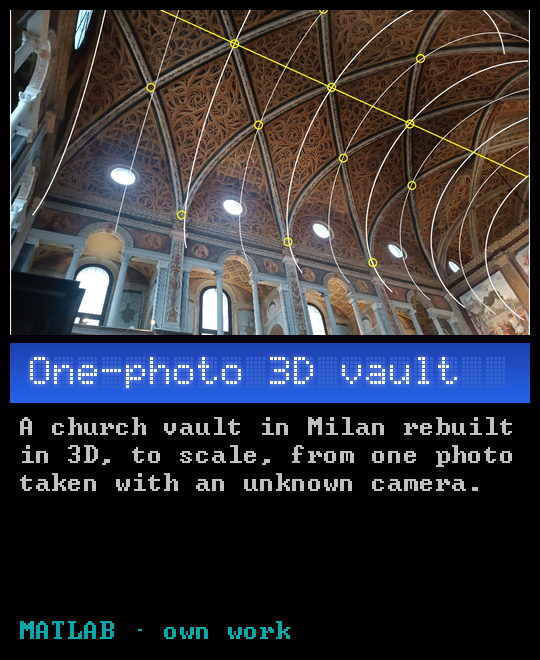
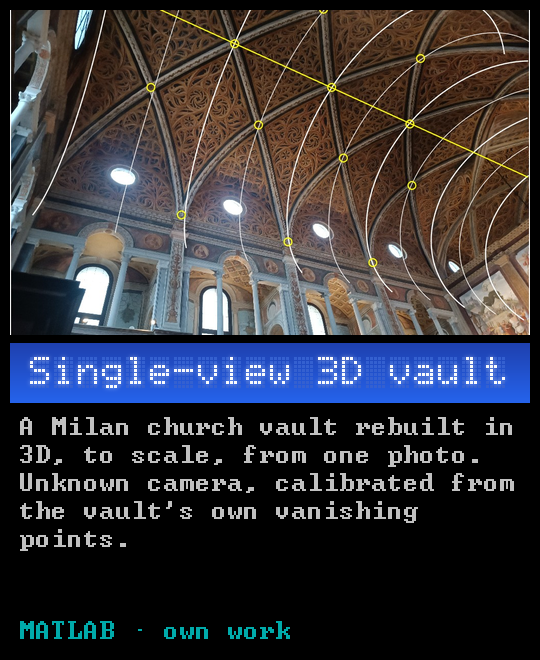
Retitle project cards and table with the system plus the technique
- Cards: Seesaw LQR control, Single-view 3D vault, Crane modal analysis;
  Seesaw card now credits work across every stage.
- Snakes & Ladders and AVR traffic light move from the grid to the table.
- Table links use readable names; Beko project renamed to Beko anomaly
  detection; CADBOARD alignment error given in px^2 (MSE).

diff --git a/README.md b/README.md
@@ -4,18 +4,16 @@
 <a href="projects/beko-connector-inspection.md"><img src="assets/projects/beko.gif" width="270" alt="Beko anomaly detection. Finds missing cables on Beko oven control boards. Caught 21 of 25 real defects, passed 98.2% of good connectors. PyTorch - team of 4, I built the per-connector anomaly detection - drawing (photos under NDA). Picture: Drawing of a control board with four connectors; the scan marks the one with no cable."></a>
 <a href="https://github.com/Negm2000/CADBOARD"><img src="assets/projects/cadboard.gif" width="270" alt="CADBOARD inspection. A camera checks a part against its CAD drawing and marks what&#x27;s wrong. Python, OpenCV - team of 2. Picture: A CAD drawing fitted onto a camera image of a cardboard part, with the creases checked."></a>
 <a href="https://github.com/Negm2000/ros2-mecanum-bot"><img src="assets/projects/robot.png" width="270" alt="ROS 2 mecanum robot. A robot that can drive in any direction. I wrote the motor interface, the odometry and the visitor screen. C++, ROS 2 - B.Sc. graduation project (A+), team of 5. Picture: Drive base of the tour-guide robot on four mecanum wheels."></a>
-<a href="https://github.com/Negm2000/Seesaw"><img src="assets/projects/seesaw.gif" width="270" alt="Seesaw balancing. A cart keeps a seesaw level that would tip over on its own, on real lab hardware. MATLAB, Simulink - team of 4, I designed one controller and the test protocol. Picture: A cart driving back and forth on a seesaw to keep it level."></a>
+<a href="https://github.com/Negm2000/Seesaw"><img src="assets/projects/seesaw.gif" width="270" alt="Seesaw LQR control. Open-loop-unstable seesaw on real Quanser hardware. Friction ID and observer; PID vs pole placement vs LQR, best 0.33° RMS tracking. MATLAB, Simulink - team of 4, worked on every stage. Picture: A cart driving back and forth on a seesaw to keep it level."></a>
 <a href="https://github.com/Negm2000/Xonix-x86-assembly"><img src="assets/projects/xonix.gif" width="270" alt="Xonix in assembly. Two-player arcade game written by hand in assembly, about 4,800 lines. x86 assembly, runs in DOS. Picture: Two-player Xonix running in DOSBox."></a>
 <a href="https://github.com/Negm2000/RNN-pirate-pain-classification"><img src="assets/projects/pain.png" width="270" alt="RNN pain classifier. Estimates pain level from motion-capture recordings. 0.960 F1 on Kaggle. PyTorch - team of 4, I built the model. Picture: Joint movement over time for three pain levels."></a>
 <a href="https://github.com/Negm2000/cancer-histopathology"><img src="assets/projects/cancer.png" width="270" alt="Cancer subtype CNN. Tells breast-cancer subtypes apart from microscope images; the heat map shows where the model looked. 4th of 196. PyTorch - team of 4. Picture: Tissue sample next to a heat map of where the model looked."></a>
-<a href="https://github.com/Negm2000/Harbour-Crane-FEM"><img src="assets/projects/dms.gif" width="270" alt="Harbour crane modes. Finite-element model of a harbour crane: its vibration modes, and one added beam that cut vibration at the boom tip by 65% for 5% more mass. MATLAB - own work, PoliMi course. Picture: The crane structure vibrating in its first three natural modes, 1.34, 1.59 and 4.03 Hz."></a>
+<a href="https://github.com/Negm2000/Harbour-Crane-FEM"><img src="assets/projects/dms.gif" width="270" alt="Crane modal analysis. Finite-element model of a harbour crane: its vibration modes, and one added beam that cut vibration at the boom tip by 65% for 5% more mass. MATLAB - own work, PoliMi course. Picture: The crane structure vibrating in its first three natural modes, 1.34, 1.59 and 4.03 Hz."></a>
 <a href="https://github.com/Negm2000/IoT-challenges"><img src="assets/projects/iot.gif" width="270" alt="IoT sensor networks. How long a simulated ESP32 parking sensor lasts on one battery, from its power trace. Plus CoAP and MQTT traffic and a LoRaWAN capacity model. Python, Node-RED - own work, PoliMi IoT course. Picture: Scope trace of the sensor waking from deep sleep, booting, turning Wi-Fi on and off, and sleeping again; battery life 78 hours."></a>
-<a href="https://github.com/Negm2000/IACV"><img src="assets/projects/vault.png" width="270" alt="One-photo 3D vault. A church vault in Milan rebuilt in 3D, to scale, from one photo taken with an unknown camera. MATLAB - own work. Picture: The fitted cylinder and the rib crossings drawn back onto the photo of the vault."></a>
+<a href="https://github.com/Negm2000/IACV"><img src="assets/projects/vault.png" width="270" alt="Single-view 3D vault. A Milan church vault rebuilt in 3D, to scale, from one photo. Unknown camera, calibrated from the vault&#x27;s own vanishing points. MATLAB - own work. Picture: The fitted cylinder and the rib crossings drawn back onto the photo of the vault."></a>
 <a href="https://github.com/Negm2000/ATmega32-Star-Framework"><img src="assets/projects/drivers.gif" width="270" alt="AVR driver framework. Drivers for a microcontroller&#x27;s timer, serial port and display, written from the datasheet. C, ATmega32. Picture: A clock ticking on a character display driven by a simulated microcontroller."></a>
 <a href="https://github.com/Negm2000/Tram-DC-Drive-Simulink"><img src="assets/projects/tram.png" width="270" alt="Tram traction drive. Speed control for the motor of a 25-tonne tram, in simulation. Simulink. Picture: Plot of a tram&#x27;s measured speed following the requested speed."></a>
-<a href="https://github.com/Negm2000/AVR-Traffic-Light"><img src="assets/projects/traffic.gif" width="270" alt="AVR traffic light. Traffic light with a pedestrian button, running on a bare microcontroller. C, ATmega32 - my own timer and interrupt drivers. Picture: Simulated traffic-light circuit reacting to the pedestrian button."></a>
 <a href="https://github.com/Negm2000/exam-autograder"><img src="assets/projects/exam.png" width="270" alt="Exam auto-grader. Grades multiple-choice exam sheets from phone photos, working out each sheet&#x27;s layout by itself. Python, OpenCV - led a team of 4, wrote the bubble-sheet reader. Picture: A tilted phone photo of a 45-question sheet next to the straightened sheet with all 250 bubbles found and the student ID read."></a>
-<a href="https://github.com/Negm2000/snakes-and-ladders-cpp"><img src="assets/projects/snakes.png" width="270" alt="Snakes &amp; Ladders. Four-player game with Monopoly-style cards and a board editor. C++ - team of 4, I wrote the play-mode actions and save/load. Picture: Snakes and Ladders board with ladders, snakes and cards."></a>
 </p>
 
 - **Now:** R&D Software Engineer at Danfoss, working on the PC software used to commission and diagnose servo drives (C#, .NET, WPF/MVVM), tested on real drives over EtherCAT, PROFINET and POWERLINK. That code is closed source, so what's here is university and personal work.
@@ -28,24 +26,24 @@
 
 | Project | What it is | Stack |
 |---|---|---|
-| [CADBOARD](https://github.com/Negm2000/CADBOARD) | Checks a part against its DXF drawing through an industrial camera and flags four defect types; homography alignment to 3-5 px error. | Python, OpenCV |
-| [PCB connector inspection for Beko Europe](projects/beko-connector-inspection.md) (code private, client data under NDA) | Industrial project with Beko's oven plant: per-connector EfficientAD anomaly detection for missing cables. In the team's two-stage pipeline it caught 21 of 25 real defects while passing 98.2% of good connectors. | PyTorch, OpenCV |
-| [RNN-pirate-pain-classification](https://github.com/Negm2000/RNN-pirate-pain-classification) | Pain-level classification from motion-capture time series with heavy class imbalance, 0.960 F1 on Kaggle. | PyTorch |
-| [IACV](https://github.com/Negm2000/IACV) | Camera calibration and a metric 3D reconstruction of a church vault from a single uncalibrated photo. | MATLAB |
-| [exam-autograder](https://github.com/Negm2000/exam-autograder) | Grades multiple-choice bubble sheets from phone photos with classical image processing. Team project; I wrote the bubble-sheet pipeline. | Python, OpenCV |
-| [Xonix-x86-assembly](https://github.com/Negm2000/Xonix-x86-assembly) | Two-player arcade game written by hand in 16-bit x86 assembly for DOS, about 4,800 lines (2022). | x86 assembly |
-| [ros2-mecanum-bot](https://github.com/Negm2000/ros2-mecanum-bot) | `ros2_control` hardware interface over serial and wheel odometry for a mecanum tour-guide robot. B.Sc. graduation project (A+). | C++, ROS 2 |
-| [ATmega32-Star-Framework](https://github.com/Negm2000/ATmega32-Star-Framework) | Bare-metal GPIO, timer, UART and LCD drivers for the ATmega32, written from the datasheet. | C |
-| [AVR-Traffic-Light](https://github.com/Negm2000/AVR-Traffic-Light) | Traffic light with a pedestrian button on an ATmega32, driven by a timer and an external interrupt. Udacity EgFWD Embedded Systems track. | C |
-| [Terminal-Payment-Simulator](https://github.com/Negm2000/Terminal-Payment-Simulator) | Card, terminal and server modules of a payment flow in C, with Luhn and expiry checks. Udacity EgFWD Embedded Systems track. | C |
-| [Seesaw](https://github.com/Negm2000/Seesaw) | Balancing an open-loop-unstable cart and seesaw on real Quanser hardware. I designed the pole-placement controller and observer and wrote the test protocol used to compare all controllers. | MATLAB, Simulink |
-| [Tram-DC-Drive-Simulink](https://github.com/Negm2000/Tram-DC-Drive-Simulink) | DC traction drive for a 25 t tram with cascaded current/speed control and field weakening. | Simulink |
-| [Networked-Control](https://github.com/Negm2000/Networked-Control) | Centralized vs. decentralized vs. distributed LMI control of coupled pendula. | MATLAB, YALMIP |
-| [cancer-histopathology](https://github.com/Negm2000/cancer-histopathology) | Team entry that placed 4th of 196 in breast-cancer subtype classification. | PyTorch |
-| [Harbour-Crane-FEM](https://github.com/Negm2000/Harbour-Crane-FEM) | Finite-element model of a harbour crane: natural frequencies and modes below 10 Hz, frequency responses, and a structural change that cut vertical acceleration at the boom tip by 65% for 5% more mass. | MATLAB |
-| [IoT-challenges](https://github.com/Negm2000/IoT-challenges) | Battery life of a simulated ESP32 parking sensor from supplied power traces; CoAP and MQTT packet-capture analysis; Node-RED/MQTT/ThingSpeak flow; LoRaWAN capacity model. | Python, MATLAB, Node-RED |
-| [Danfoss-Challenge](https://github.com/Negm2000/Danfoss-Challenge) | Log parser that turns messy, multi-line log files into JSON, streaming line by line so memory stays flat on very large files. | C# |
-| [snakes-and-ladders-cpp](https://github.com/Negm2000/snakes-and-ladders-cpp) | Four-player Snakes & Ladders with Monopoly-style cards, power-ups and a board editor. Team course project; I wrote the play-mode actions and save/load. | C++ |
+| [CADBOARD](https://github.com/Negm2000/CADBOARD) | Checks a part against its DXF drawing through an industrial camera and flags four defect types; homography refinement cut contour alignment error from 15-18 to 3-5 px². | Python, OpenCV |
+| [Beko anomaly detection](projects/beko-connector-inspection.md) (code private, client data under NDA) | Industrial project with Beko's oven plant: per-connector EfficientAD anomaly detection for missing cables. In the team's two-stage pipeline it caught 21 of 25 real defects while passing 98.2% of good connectors. | PyTorch, OpenCV |
+| [RNN pain classifier on motion capture](https://github.com/Negm2000/RNN-pirate-pain-classification) | Pain-level classification from motion-capture time series with heavy class imbalance, 0.960 F1 on Kaggle. | PyTorch |
+| [Single-view 3D reconstruction of a church vault](https://github.com/Negm2000/IACV) | Camera calibration and a metric 3D reconstruction of a church vault from a single uncalibrated photo. | MATLAB |
+| [Exam auto-grader](https://github.com/Negm2000/exam-autograder) | Grades multiple-choice bubble sheets from phone photos with classical image processing. Team project; I wrote the bubble-sheet pipeline. | Python, OpenCV |
+| [Xonix in x86 assembly](https://github.com/Negm2000/Xonix-x86-assembly) | Two-player arcade game written by hand in 16-bit x86 assembly for DOS, about 4,800 lines (2022). | x86 assembly |
+| [ROS 2 mecanum robot](https://github.com/Negm2000/ros2-mecanum-bot) | `ros2_control` hardware interface over serial and wheel odometry for a mecanum tour-guide robot. B.Sc. graduation project (A+). | C++, ROS 2 |
+| [ATmega32 driver framework](https://github.com/Negm2000/ATmega32-Star-Framework) | Bare-metal GPIO, timer, UART and LCD drivers for the ATmega32, written from the datasheet. | C |
+| [AVR traffic light](https://github.com/Negm2000/AVR-Traffic-Light) | Traffic light with a pedestrian button on an ATmega32, driven by a timer and an external interrupt. Udacity EgFWD Embedded Systems track. | C |
+| [Payment terminal simulator](https://github.com/Negm2000/Terminal-Payment-Simulator) | Card, terminal and server modules of a payment flow in C, with Luhn and expiry checks. Udacity EgFWD Embedded Systems track. | C |
+| [Seesaw LQR control on Quanser hardware](https://github.com/Negm2000/Seesaw) | Balancing an open-loop-unstable cart and seesaw on real Quanser hardware, team of 4. Worked across modelling, friction identification, controller design and hardware tests; led the pole-placement controller and observer (best of 3 controllers, 0.33° RMS tracking) and the shared test protocol. | MATLAB, Simulink |
+| [Tram DC traction drive](https://github.com/Negm2000/Tram-DC-Drive-Simulink) | DC traction drive for a 25 t tram with cascaded current/speed control and field weakening. | Simulink |
+| [Decentralized LMI control of coupled pendula](https://github.com/Negm2000/Networked-Control) | Centralized vs. decentralized vs. distributed LMI control of coupled pendula. Team of 2; I designed the discrete-time controllers. | MATLAB, YALMIP |
+| [Cancer subtype CNN](https://github.com/Negm2000/cancer-histopathology) | Team entry that placed 4th of 196 in breast-cancer subtype classification. | PyTorch |
+| [Harbour crane modal analysis (FEM)](https://github.com/Negm2000/Harbour-Crane-FEM) | Finite-element model of a harbour crane: natural frequencies and modes below 10 Hz, frequency responses, and a structural change that cut vertical acceleration at the boom tip by 65% for 5% more mass. | MATLAB |
+| [IoT sensor networks](https://github.com/Negm2000/IoT-challenges) | Battery life of a simulated ESP32 parking sensor from supplied power traces; CoAP and MQTT packet-capture analysis; Node-RED/MQTT/ThingSpeak flow; LoRaWAN capacity model. | Python, MATLAB, Node-RED |
+| [Streaming log parser (Danfoss challenge)](https://github.com/Negm2000/Danfoss-Challenge) | Log parser that turns messy, multi-line log files into JSON, streaming line by line so memory stays flat on very large files. | C# |
+| [Snakes & Ladders in C++](https://github.com/Negm2000/snakes-and-ladders-cpp) | Four-player Snakes & Ladders with Monopoly-style cards, power-ups and a board editor. Team course project; I wrote the play-mode actions and save/load. | C++ |
 
 </details>
 

diff --git a/projects/beko-connector-inspection.md b/projects/beko-connector-inspection.md
@@ -1,6 +1,6 @@
 <img src="../assets/cards/beko.svg" width="100%" alt="Drawing of a control board with four connectors; a scan marks the one with no cable. A drawing, not a real Beko board.">
 
-# Connector inspection for Beko Europe
+# Beko anomaly detection
 
 Project work at Politecnico di Milano for Beko Europe's oven plant, September 2025 to February 2026. Team of 4, graded 30/30. My part was the anomaly detector and its thresholds.
 
